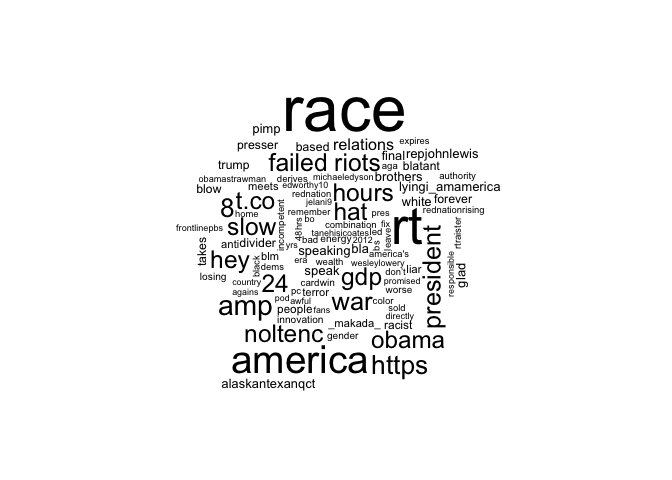
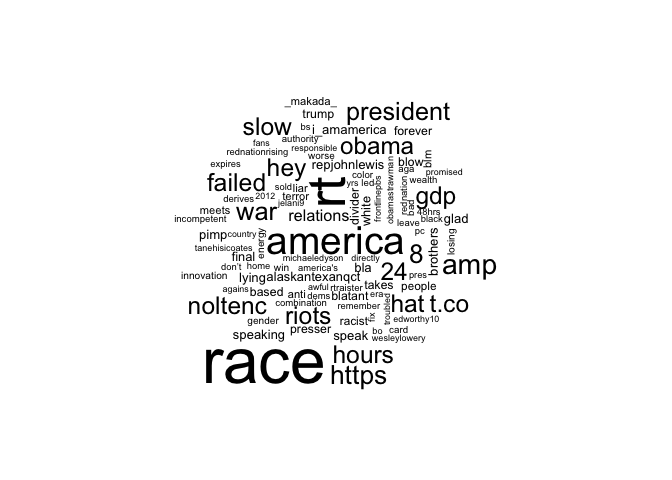
common terms and common sentiment terms by social issue

Changed region(s): [[0.25, 0.1875, 0.75, 0.8125]]

diff --git a/Westley_Final_Project_VersionTracking.md b/Westley_Final_Project_VersionTracking.md
@@ -6,4 +6,4 @@ Due Sunday June 4, 2017
 Final Visualization(s)
 ----------------------
 
-![](Westley_Final_Project_VersionTracking_files/figure-markdown_github/unnamed-chunk-1-1.png)
+![](Westley_Final_Project_VersionTracking_files/figure-markdown_github/unnamed-chunk-1-1.png)![](Westley_Final_Project_VersionTracking_files/figure-markdown_github/unnamed-chunk-1-2.png)![](Westley_Final_Project_VersionTracking_files/figure-markdown_github/unnamed-chunk-1-3.png)![](Westley_Final_Project_VersionTracking_files/figure-markdown_github/unnamed-chunk-1-4.png)![](Westley_Final_Project_VersionTracking_files/figure-markdown_github/unnamed-chunk-1-5.png)![](Westley_Final_Project_VersionTracking_files/figure-markdown_github/unnamed-chunk-1-6.png)
